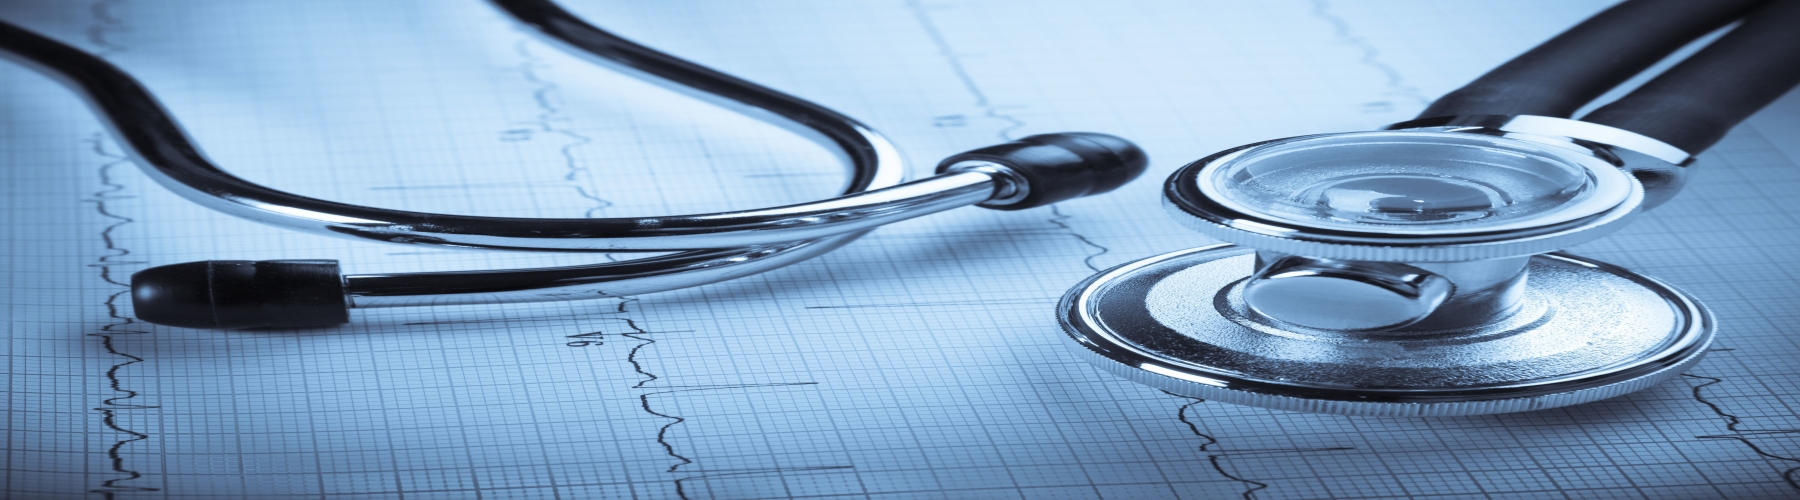
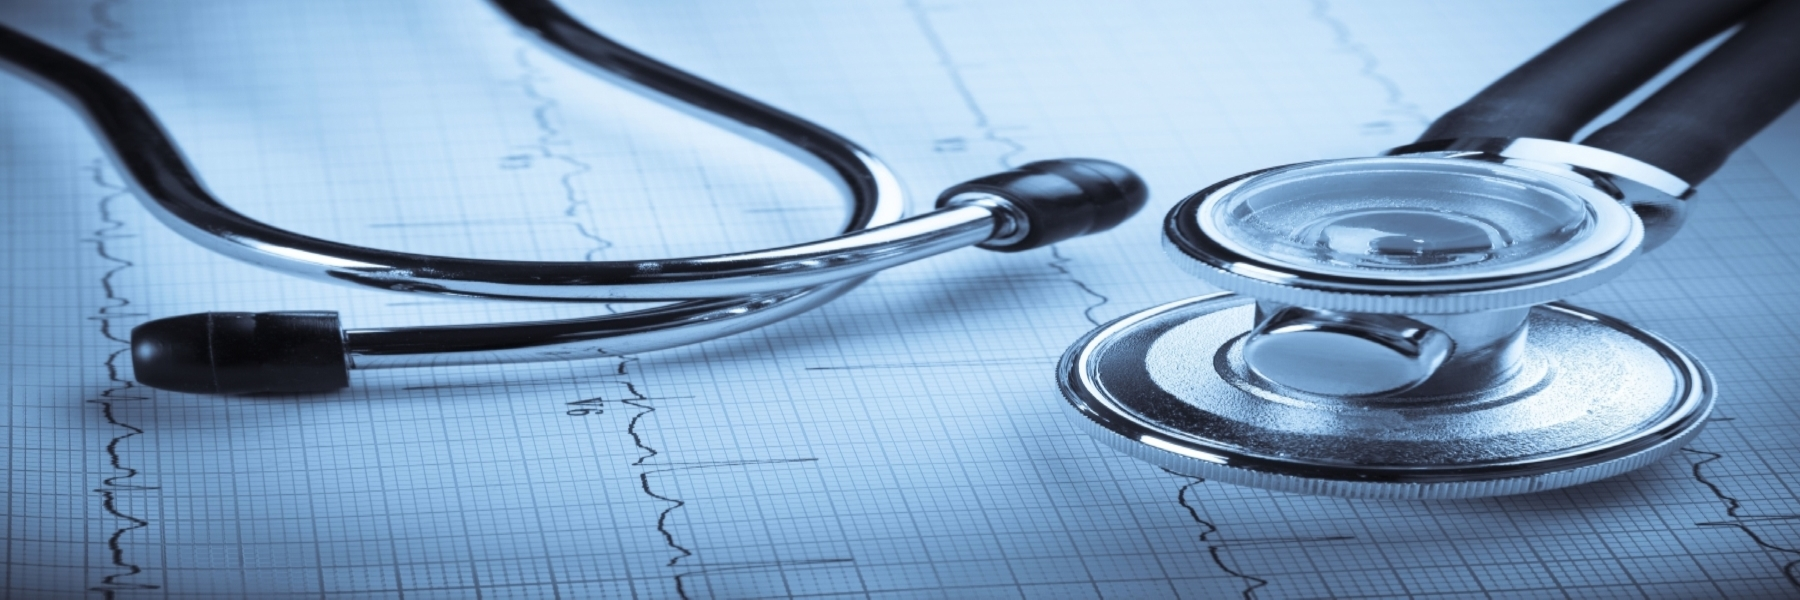
...

diff --git a/contactos.html b/contactos.html
@@ -31,10 +31,10 @@
                     <li class="nav-item">
                         <a class="nav-link" href="#">Covid-19</a>
                     </li>
-                    <li class="nav-item active">
+                    <li class="nav-item ">
                         <a class="nav-link" href="servicos.html">Serviços</a>
                     </li>
-                    <li class="nav-item">
+                    <li class="nav-item active">
                         <a class="nav-link" href="contactos.html">Contactos</a>
                     </li>
                 </ul>
@@ -42,73 +42,19 @@
         </div>
 
     </nav>
-    <img src="img/servicos.jpg" class="d-block w-100">
-    <div class="carousel-caption d-none d-md-block">
-        <strong class="banner-title ; animated bounceInDown" style="animation-delay: 1.5s">Serviços</strong></h2>
-        <h3 class="animated fadeInUp ; slogan" style="color: black;animation-delay: 2s;">Estamos aqui para que fique em Casa.</h3>
+        <img src="img/contactos.jpeg" class="d-block w-100">
+        <div class="carousel-caption d-none d-md-block">
+        <strong class="banner-title ; animated bounceInDown" style="animation-delay: 1.5s">Contactos</strong></h2>
+            <h3 class="animated fadeInUp ; slogan" style="color: black;animation-delay: 2s;">Fale Connosco</h3>
+            
+            
+        </div>
         
-        
-    </div>
-    </div>
+    
+    
     <hr>
     <hr>
-    <div class="container-fluid padding">
-        <div class="row padding">
-            <div class="col-lg-6">
-                <h2>Consulta de Urgencia</h2>
-                <p>Médicos integrados no serviço nacional de saúde, rotinados e com experiência comprovada em unidades
-                    de saúde locais e em urgências hospitalares, deslocam-se onde quer que esteja para avaliar,
-                    diagnosticar, referenciar e prescrever os cuidados necessários à sua recuperação.</p>
-                <p>Treinados em Triagem, articulam-se com os meios convencionais de socorro (INEM), quando o estado de
-                    saúde do doente exige intervenção de emergência.</p>
-                <br>
-                <a href="#">Contacto</a>
-            </div>
-            <div class="col-lg-6">
-                <img src="" alt="">
-            </div>
-        </div>
-    </div>
-    <hr>
-    <hr>
-    <div class="container-fluid padding">
-        <div class="row padding">
-            <div class="col-lg-6">
-                <h2>Consulta de Urgencia</h2>
-                <p>Médicos integrados no serviço nacional de saúde, rotinados e com experiência comprovada em unidades
-                    de saúde locais e em urgências hospitalares, deslocam-se onde quer que esteja para avaliar,
-                    diagnosticar, referenciar e prescrever os cuidados necessários à sua recuperação.</p>
-                <p>Treinados em Triagem, articulam-se com os meios convencionais de socorro (INEM), quando o estado de
-                    saúde do doente exige intervenção de emergência.</p>
-                <br>
-                <a href="#">Contacto</a>
-            </div>
-            <div class="col-lg-6">
-                <img src="" alt="">
-            </div>
-        </div>
-    </div>
-    <hr>
-    <hr>
-    <div class="container-fluid padding">
-        <div class="row padding">
-            <div class="col-lg-6">
-                <h2>Consulta de Urgencia</h2>
-                <p>Médicos integrados no serviço nacional de saúde, rotinados e com experiência comprovada em unidades
-                    de saúde locais e em urgências hospitalares, deslocam-se onde quer que esteja para avaliar,
-                    diagnosticar, referenciar e prescrever os cuidados necessários à sua recuperação.</p>
-                <p>Treinados em Triagem, articulam-se com os meios convencionais de socorro (INEM), quando o estado de
-                    saúde do doente exige intervenção de emergência.</p>
-                <br>
-                <a href="#">Contacto</a>
-            </div>
-            <div class="col-lg-6">
-                <img src="" alt="">
-            </div>
-        </div>
-    </div>
-    <hr>
-    <hr>
+ 
 
     <!---Footer-->
     <footer>

diff --git a/inicio.html b/inicio.html
@@ -1,0 +1,56 @@
+<!DOCTYPE html>
+<html lang="en">
+<head>
+    <meta charset="UTF-8">
+    <meta name="viewport" content="width=device-width, initial-scale=1.0">
+    <title>Document</title>
+    
+    <link rel="stylesheet" href="https://stackpath.bootstrapcdn.com/bootstrap/4.3.1/css/bootstrap.min.css"
+        integrity="sha384-ggOyR0iXCbMQv3Xipma34MD+dH/1fQ784/j6cY/iJTQUOhcWr7x9JvoRxT2MZw1T" crossorigin="anonymous">       
+        <link rel="stylesheet" type="text/css" href="https://cdnjs.cloudflare.com/ajax/libs/animate.css/3.7.2/animate.css">       
+    <link rel="stylesheet" href="inicial.css">
+    
+</head>
+
+<body>
+    <div class="carousel-caption  d-md-block">
+        <strong><h2 class="banner-title ; animated bounceInRight " style="animation-delay: 1s">Home </strong><strong class="title ; animated bounceInDown" style="animation-delay: 2.5s">Clinic</strong></h2>
+        <a href="#myModal" data-toggle="modal" class="btn banner-link text-uppercase my-2 ; animated zoomIn" style="animation-delay: 4s;">explore</a>
+        </div>
+        
+        <div id="myModal" class="modal fade">
+            <div class="modal-dialog modal-login">
+                <div class="modal-content">
+                    <div class="modal-header">
+                        <div class="avatar">
+                            <img src="img/avatar.jpg" alt="Avatar">
+                        </div>				
+                        <h4 class="modal-title">Member Login</h4>	
+                        <button type="button" class="close" data-dismiss="modal" aria-hidden="true">&times;</button>
+                    </div>
+                    <div class="modal-body">
+                        <form action="index.html" method="post">
+                            <div class="form-group">
+                                <input type="text" class="form-control" name="username" placeholder="Username" required="required">		
+                            </div>
+                            <div class="form-group">
+                                <input type="password" class="form-control" name="password" placeholder="Password" required="required">	
+                            </div>        
+                            <div class="form-group">
+                                <button type="submit" class="btn btn-primary btn-lg btn-block login-btn">Login</button>
+                            </div>
+                        </form>
+                    </div>
+                    <div class="modal-footer">
+                        <a href="#">Forgot Password?</a>
+                    </div>
+                </div>
+            </div>
+        </div>     
+        <script src="https://cdnjs.cloudflare.com/ajax/libs/p5.js/1.0.0/p5.js"></script> 
+        <script src="https://code.jquery.com/jquery-3.3.1.slim.min.js" integrity="sha384-q8i/X+965DzO0rT7abK41JStQIAqVgRVzpbzo5smXKp4YfRvH+8abtTE1Pi6jizo" crossorigin="anonymous"></script>
+        <script src="https://cdnjs.cloudflare.com/ajax/libs/popper.js/1.14.7/umd/popper.min.js" integrity="sha384-UO2eT0CpHqdSJQ6hJty5KVphtPhzWj9WO1clHTMGa3JDZwrnQq4sF86dIHNDz0W1" crossorigin="anonymous"></script>
+        <script src="https://stackpath.bootstrapcdn.com/bootstrap/4.3.1/js/bootstrap.min.js" integrity="sha384-JjSmVgyd0p3pXB1rRibZUAYoIIy6OrQ6VrjIEaFf/nJGzIxFDsf4x0xIM+B07jRM" crossorigin="anonymous"></script>    
+    <script src="inicial.js"></script>
+</body>
+</html>

diff --git a/index.html b/index.html
@@ -26,16 +26,16 @@
             <div class="collapse navbar-collapse" id="navbarSupportedContent">
                 <ul class="navbar-nav ml-auto">
                     <li class="nav-item active">
-                        <a class="nav-link" href="#">Home</a>
+                        <a class="nav-link" href="index.html">Home</a>
                     </li>
                     <li class="nav-item">
                         <a class="nav-link" href="#">Covid-19</a>
                     </li>
                     <li class="nav-item">
-                        <a class="nav-link" href="#">Serviços</a>
+                        <a class="nav-link" href="servicos.html">Serviços</a>
                     </li>
                     <li class="nav-item">
-                        <a class="nav-link" href="#">Equipa</a>
+                        <a class="nav-link" href="#">Contactos</a>
                     </li>
                 </ul>
             </div>
@@ -53,7 +53,7 @@
             <div class="carousel-item active">
                 <img src="img/clinica.jpg" class="d-block w-100">
                 <div class="carousel-caption d-none d-md-block">
-                    <strong><h2 class="title ; animated bounceInRight " style="animation-delay: 1s">Home </strong><strong class="banner-title ; animated bounceInDown" style="animation-delay: 2.5s">Clinic</strong></h2>
+                    <strong><h2 class="title ; animated bounceInRight " style="animation-delay: 1s">Home </strong><strong class="title ; animated bounceInDown" style="animation-delay: 2.5s">Clinic</strong></h2>
                     <p class="animated fadeInUp ; slogan" style="color: black;animation-delay: 3s;"><strong>Your system of choise</strong></p>
                     <a href="#show" class="btn banner-link text-uppercase my-2 ; animated zoomIn" style="animation-delay: 4s;">explore</a>
                 </div>
@@ -90,20 +90,20 @@
     <div class="container-fluid padding">
         <div class="row welcome text-center">
             <div class="col-xs-12 col-sm-12 col-sm-6 col-md-4">
-                <a href="#"><i class="fas fa-clinic-medical" ></i></a>
+                <a href="servicos.html"><i class="fas fa-clinic-medical" ></i></a>
                 <h4>CONSULTA DOMICILIÁRIO</h4>
                 <br>
                 <p>Deslocação de Médicos com experiência a sua casa.</p>
             </div>
             <div class="col-xs-12 col-sm-12 col-sm-6 col-md-4">
-                 <a href="#"><i class="fas fa-ambulance" ></i></a>
+                 <a href="servicos.html"><i class="fas fa-ambulance" ></i></a>
                 
                 <h4>TRANSPORTE DE UTENTES</h4>
                 <br>
                 <p>Transporte para unidades hospitalares nas transferências de utentes</p>
             </div>
             <div class="col-xs-12 col-sm-12 col-sm-6 col-md-4">
-                <a href="#"><i class="fas fa-comment-medical" ></i></a>
+                <a href="servicos.html"><i class="fas fa-comment-medical" ></i></a>
                 <h4>TELECONSULTA</h4>
                 <br>
                 <p>Consultas online com um dos nossos especialistas.</p>

diff --git a/inicial.css b/inicial.css
@@ -1,0 +1,122 @@
+body{
+   margin: 0;
+   overflow: hidden;
+  
+}
+
+.title{
+    font-family: Varela Round;
+    color: white;
+    font-size: 5rem; 
+}
+  .banner-title {
+      font-family: Varela Round;
+    color: red;
+    font-size: 5rem;
+    
+  }
+  .banner-link {
+    font-size: 1.5rem;
+    color: black;
+    border: 0.2rem solid black;
+  }
+  .banner-link:hover {   
+    color: red;
+  }
+  .carousel-caption{
+    position: absolute;
+    top: 55%;
+    transform: translateY(-50%);
+    
+}
+.carousel-caption h1{
+    font-size: 500%;
+    text-transform: uppercase;
+    text-shadow: 1px 1px 20px #000;
+    border: 1px solid white;
+    border-width: 5px;
+    box-shadow: 0px 0px 5px 2px #ccc;
+}
+
+.modal-login {		
+    color: #636363;
+    width: 350px;
+   position: relative;
+ 
+}
+.modal-login .modal-content {
+    padding: 20px;
+    border-radius: 5px;
+    border: none;
+}
+.modal-login .modal-header {
+    border-bottom: none;   
+    position: relative;
+    justify-content: center;
+}
+.modal-login h4 {
+    text-align: center;
+    font-size: 26px;
+    margin: 30px 0 -15px;
+}
+.modal-login .form-control:focus {
+    border-color: #70c5c0;
+}
+.modal-login .form-control, .modal-login .btn {
+    min-height: 40px;
+    border-radius: 3px; 
+}
+.modal-login .close {
+    position: absolute;
+    top: -5px;
+    right: -5px;
+}	
+.modal-login .modal-footer {
+    background: #ecf0f1;
+    border-color: #dee4e7;
+    text-align: center;
+    justify-content: center;
+    margin: 0 -20px -20px;
+    border-radius: 5px;
+    font-size: 13px;
+}
+.modal-login .modal-footer a {
+    color: #999;
+}		
+.modal-login .avatar {
+    position: absolute;
+    margin: 0 auto;
+    left: 0;
+    right: 0;
+    top: -70px;
+    width: 95px;
+    height: 95px;
+    border-radius: 50%;
+    z-index: 9;
+    background: #60c7c1;
+    padding: 15px;
+    box-shadow: 0px 2px 2px rgba(0, 0, 0, 0.1);
+}
+.modal-login .avatar img {
+    width: 100%;
+}
+.modal-login.modal-dialog {
+    margin-top: 80px;
+}
+.modal-login .btn {
+    color: #fff;
+    border-radius: 4px;
+    background: #60c7c1;
+    text-decoration: none;
+    transition: all 0.4s;
+    line-height: normal;
+    border: none;
+}
+.modal-login .btn:hover, .modal-login .btn:focus {
+    background: #45aba6;
+    outline: none;
+}
+.trigger-btn {
+    display: inline-block;
+    margin: 100px auto;
+}

diff --git a/inicial.js b/inicial.js
@@ -1,0 +1,62 @@
+const particles = [];
+function setup() {
+	createCanvas(window.innerWidth, window.innerHeight);
+	
+	const particlesLength = Math.min(Math.floor(window.innerWidth / 10), 100);
+	for(let i=0; i<particlesLength; i++) {
+		particles.push(new Particle());
+	}
+}
+
+function draw() {
+	background(120, 231, 194);
+	
+	particles.forEach((particle, idx) => {
+		particle.update();
+		particle.draw();
+		particle.checkParticles(particles.slice(idx));
+	});
+}
+
+class Particle {
+	constructor() {
+		this.pos = createVector(random(width), random(height));
+		this.vel = createVector(random(-2, 2), random(-2, 2));
+		this.size = 5;
+	}
+	
+	update() {
+		this.pos.add(this.vel);
+		this.edges();
+	}
+	
+	draw() {
+		noStroke();
+		fill('rgba(255, 255, 255, 0.5)');
+		circle(this.pos.x, this.pos.y, this.size * 2);
+	}
+	
+	edges() {
+		if(this.pos.x < 0 || this.pos.x > width) {
+			this.vel.x *= -1;
+		}
+		
+		if(this.pos.y < 0 || this.pos.y > height) {
+			this.vel.y *= -1;
+		}
+		
+
+	}
+	
+	checkParticles(particles) {
+		particles.forEach(particle => {
+			const d = dist(this.pos.x, this.pos.y, particle.pos.x, particle.pos.y);
+			if(d < 120) {
+				const alpha = map(d, 0, 120, 0, 0.25)
+				stroke(`rgba(255, 255, 255, ${alpha})`);
+				line(this.pos.x, this.pos.y, particle.pos.x, particle.pos.y)
+			}
+		});
+	}
+}
+
